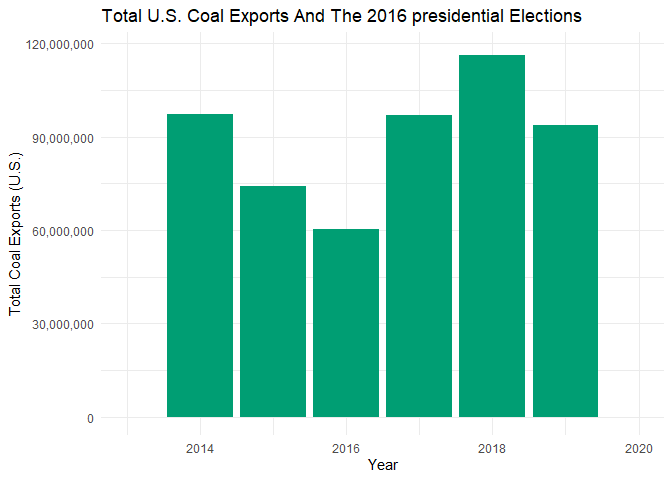
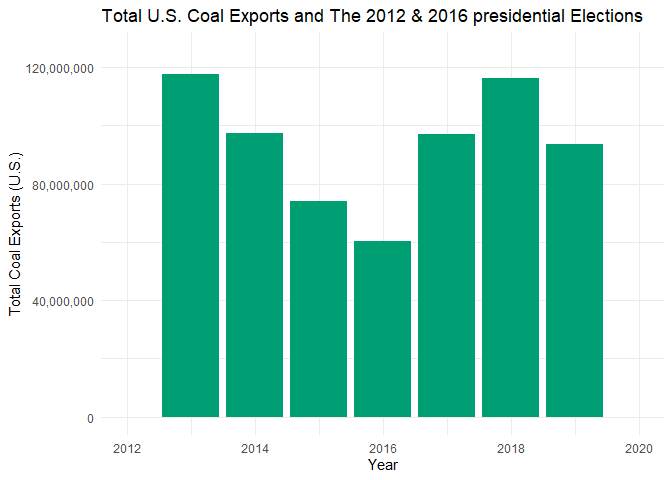
Attempting to show something interesting

diff --git a/R/coal.html b/R/coal.html
@@ -648,11 +648,12 @@ The top consuming coal countries are the following… 1. India<br />
 <span id="cb29-2"><a href="#cb29-2" aria-hidden="true" tabindex="-1"></a>  </span>
 <span id="cb29-3"><a href="#cb29-3" aria-hidden="true" tabindex="-1"></a>plot3<span class="ot">&lt;-</span><span class="fu">ggplot</span>(<span class="at">data=</span>coal_clean, <span class="fu">aes</span>(<span class="at">x=</span>year, <span class="at">y=</span>total)) <span class="sc">+</span></span>
 <span id="cb29-4"><a href="#cb29-4" aria-hidden="true" tabindex="-1"></a>  <span class="fu">geom_bar</span>(<span class="at">stat=</span><span class="st">&quot;identity&quot;</span>, <span class="at">fill=</span><span class="st">&quot;#009E73&quot;</span>)<span class="sc">+</span></span>
-<span id="cb29-5"><a href="#cb29-5" aria-hidden="true" tabindex="-1"></a>  <span class="fu">theme_minimal</span>() <span class="sc">+</span> <span class="fu">scale_y_continuous</span>(<span class="at">labels =</span> scales<span class="sc">::</span>comma) <span class="sc">+</span> <span class="fu">labs</span>(<span class="at">title =</span> <span class="st">&quot;Total U.S. Coal Exports And The 2016 presidential Elections&quot;</span>, <span class="at">x =</span> <span class="st">&quot;Year&quot;</span>, <span class="at">y =</span> <span class="st">&quot;Total Coal Exports (U.S.)&quot;</span>) <span class="sc">+</span>  <span class="fu">xlim</span>(<span class="dv">2013</span>, <span class="dv">2020</span>)</span>
+<span id="cb29-5"><a href="#cb29-5" aria-hidden="true" tabindex="-1"></a>  <span class="fu">theme_minimal</span>() <span class="sc">+</span> <span class="fu">scale_y_continuous</span>(<span class="at">labels =</span> scales<span class="sc">::</span>comma) <span class="sc">+</span> <span class="fu">labs</span>(<span class="at">title =</span> <span class="st">&quot;Total U.S. Coal Exports and The 2012 &amp; 2016 presidential Elections&quot;</span>, <span class="at">x =</span> <span class="st">&quot;Year&quot;</span>, <span class="at">y =</span> <span class="st">&quot;Total Coal Exports (U.S.)&quot;</span>) <span class="sc">+</span> <span class="fu">xlim</span>(<span class="dv">2012</span>, <span class="dv">2020</span>)</span>
 <span id="cb29-6"><a href="#cb29-6" aria-hidden="true" tabindex="-1"></a>plot3</span></code></pre></div>
-<pre><code>## Warning: Removed 6468 rows containing missing values (position_stack).</code></pre>
-<pre><code>## Warning: Removed 979 rows containing missing values (geom_bar).</code></pre>
[1 lines of base64/hex data omitted]
+<pre><code>## Warning: Removed 5775 rows containing missing values (position_stack).</code></pre>
+<pre><code>## Warning: Removed 1032 rows containing missing values (geom_bar).</code></pre>
[1 lines of base64/hex data omitted]
+<p><strong>After the year 2012, which is when President Obama was elected for his second term, Coal consumption began to steadily decline. This was likely an electoral response which led to a decrease in coal mining in the U.S and therefore a decrease in coal exports from the U.S. This decrease in coal production is also being influenced by the decreasing cost of alternative energies like renewable electricity. In 2016, natural gas overtook coal for the first time as the largest source of electricity generation in the United States. If this is true, then why do we see a huge spike in U.S. coal production after 2016? </strong></p>
 </div>
 
 

diff --git a/R/coal.md b/R/coal.md
@@ -466,17 +466,18 @@ coal_clean %>%
   
 plot3<-ggplot(data=coal_clean, aes(x=year, y=total)) +
   geom_bar(stat="identity", fill="#009E73")+
-  theme_minimal() + scale_y_continuous(labels = scales::comma) + labs(title = "Total U.S. Coal Exports And The 2016 presidential Elections", x = "Year", y = "Total Coal Exports (U.S.)") +  xlim(2013, 2020)
+  theme_minimal() + scale_y_continuous(labels = scales::comma) + labs(title = "Total U.S. Coal Exports and The 2012 & 2016 presidential Elections", x = "Year", y = "Total Coal Exports (U.S.)") + xlim(2012, 2020)
 plot3
 ```
 
 ```
-## Warning: Removed 6468 rows containing missing values (position_stack).
+## Warning: Removed 5775 rows containing missing values (position_stack).
 ```
 
 ```
-## Warning: Removed 979 rows containing missing values (geom_bar).
+## Warning: Removed 1032 rows containing missing values (geom_bar).
 ```
 
 ![](coal_files/figure-html/Figure 3-1.png)<!-- -->
 
+**After the year 2012, which is when President Obama was elected for his second term, Coal consumption began to steadily decline. This was likely an electoral response which led to a decrease in coal mining in the U.S and therefore a decrease in coal exports from the U.S. This decrease in coal production is also being influenced by the decreasing cost of alternative energies like renewable electricity. In 2016, natural gas overtook coal for the first time as the largest source of electricity generation in the United States. If this is true, then why do we see a huge spike in U.S. coal production after 2016? **
